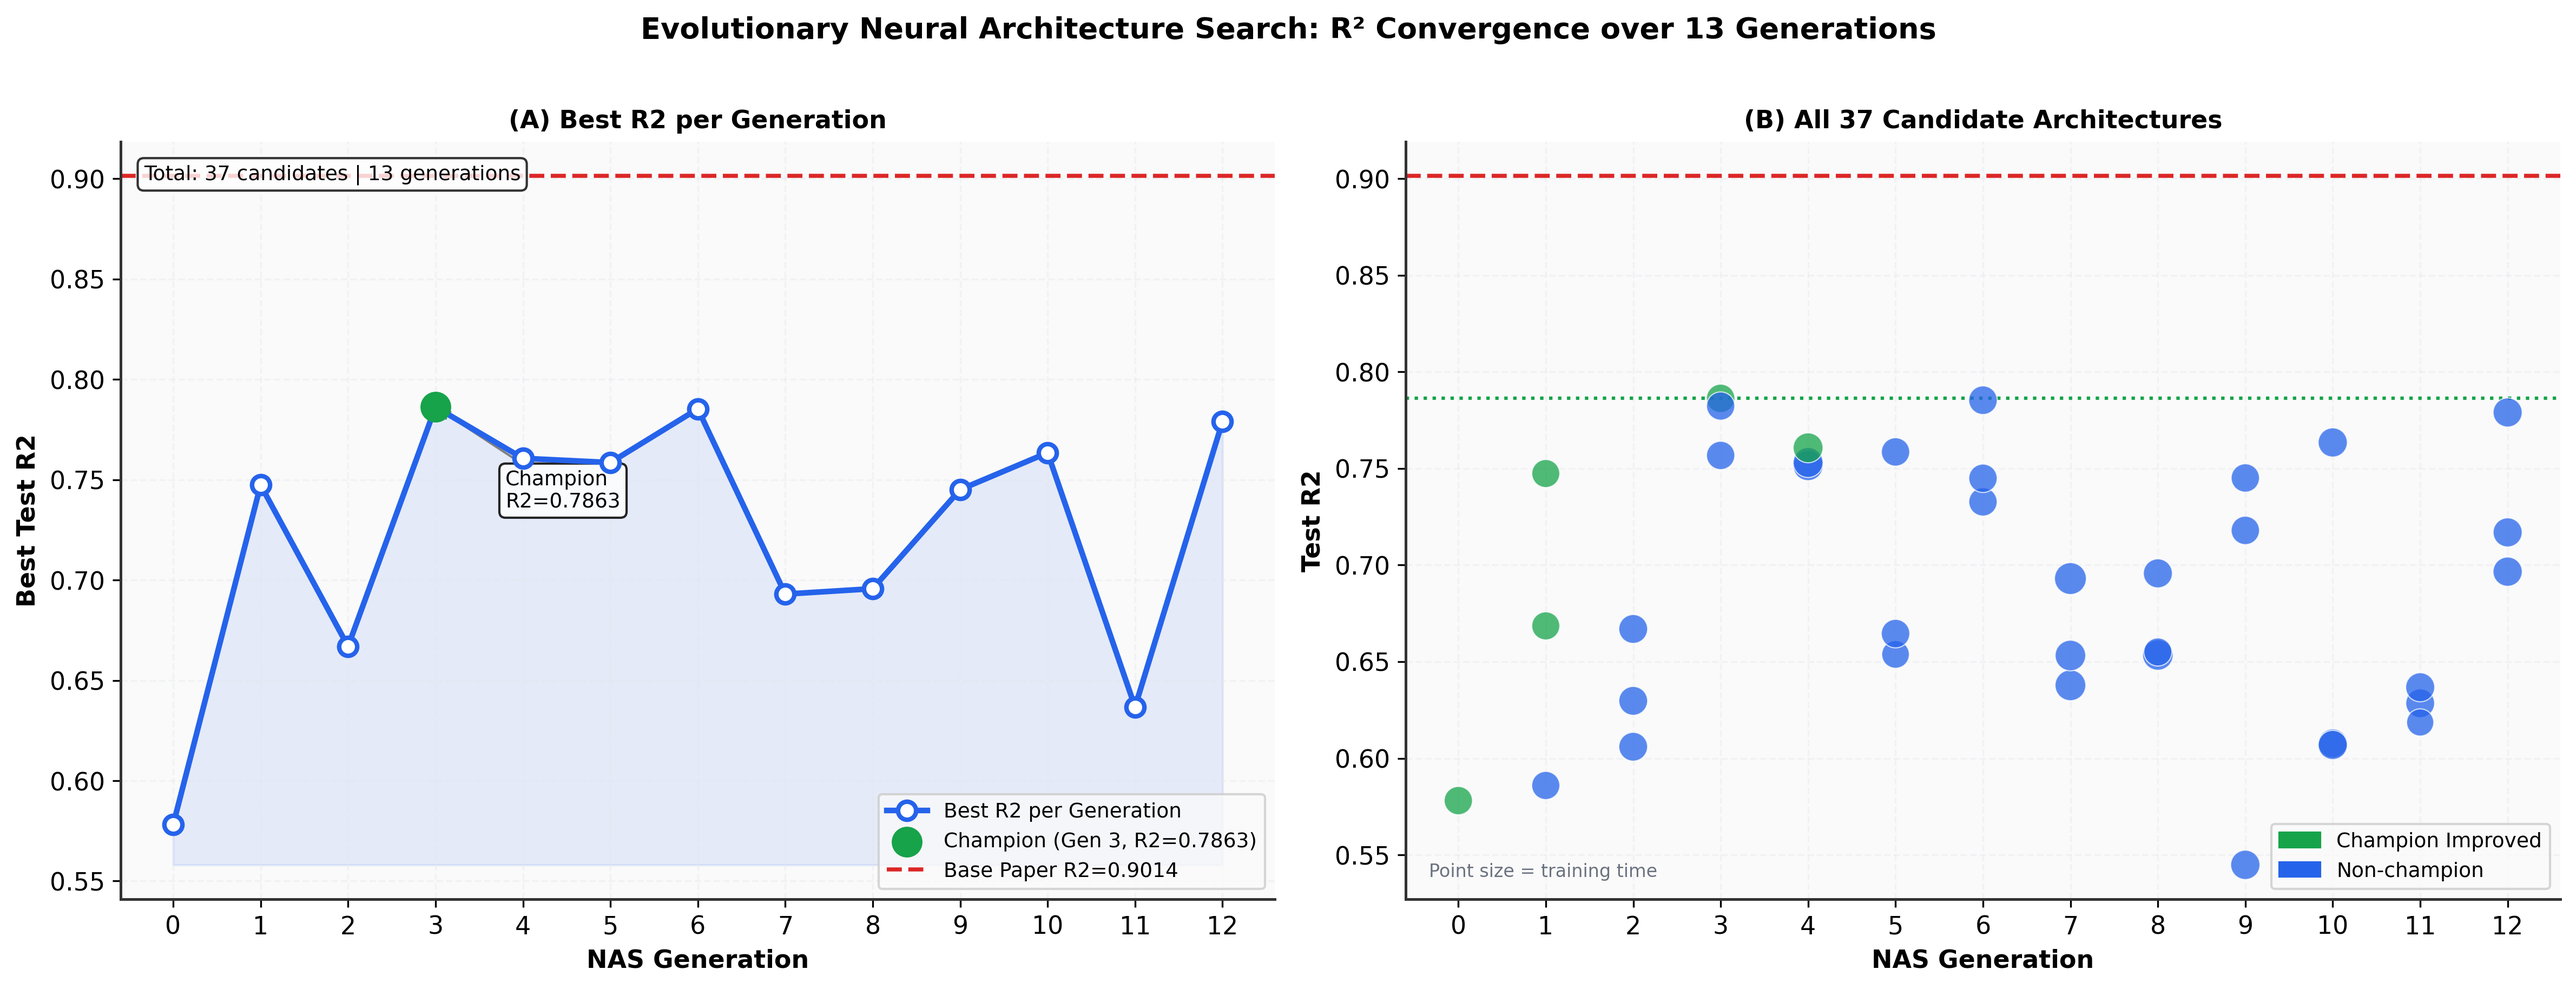
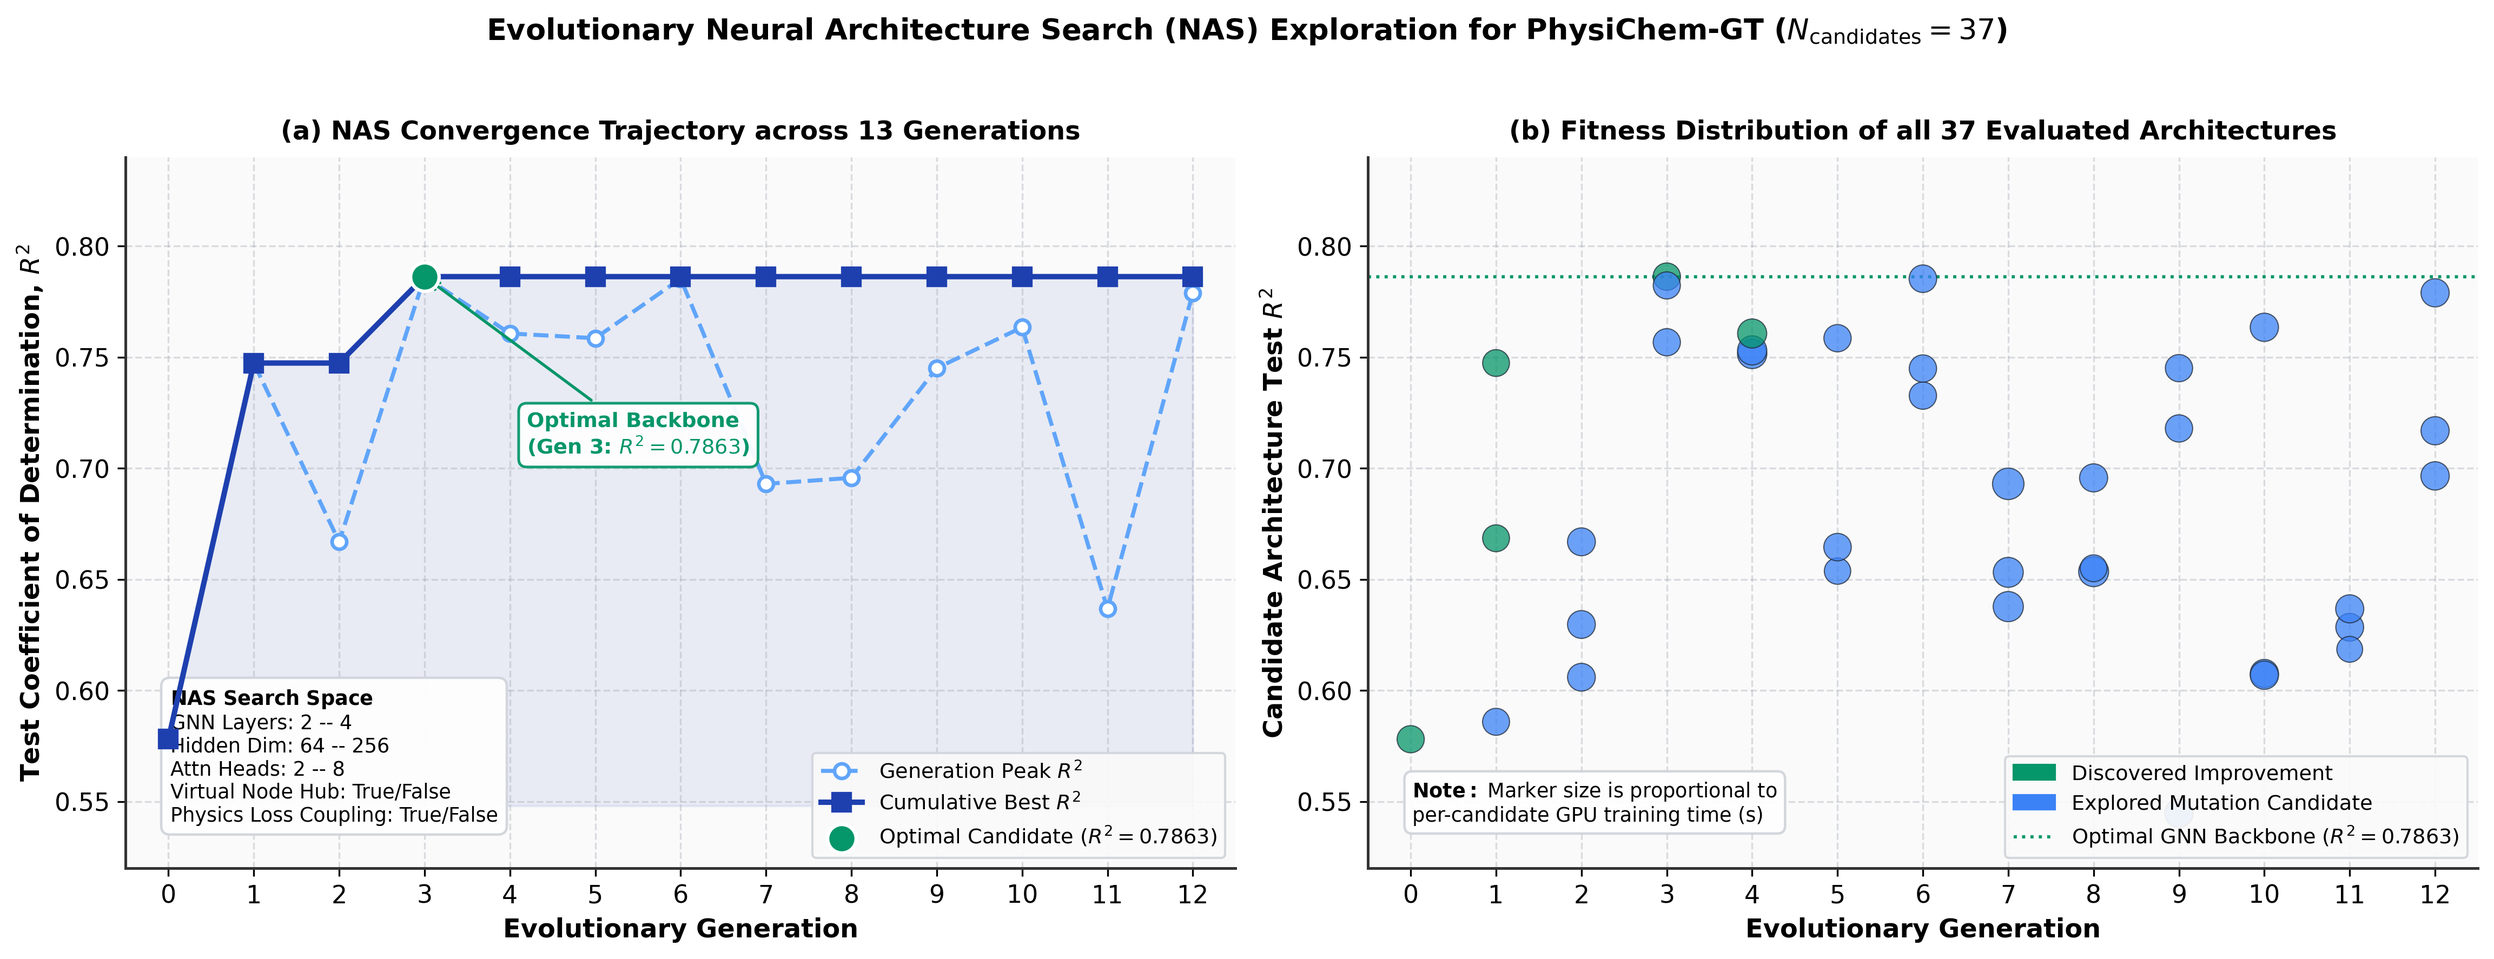
style(fig4): Polish Figure 4 NAS search trajectory to ACS publication standard

diff --git a/src/generate_paper_figures.py b/src/generate_paper_figures.py
@@ -775,7 +775,7 @@ def generate_figure6(data, models):
 # ==============================================================================
 
 def generate_figure4():
-    print("\n[Figure 4] NAS Evolutionary Search Progress ...")
+    print("\n[Figure 4] NAS Evolutionary Search Progress (Publication Grade) ...")
     nas_path = os.path.join(BASE_DIR, "results", "evolution_search", "search_progress.json")
     with open(nas_path) as f:
         nas = json.load(f)
@@ -786,58 +786,99 @@ def generate_figure4():
     all_best  = [r['is_best']     for r in results]
     all_time  = [r.get('time', 60) for r in results]
 
+    # 1. Generation best & Cumulative best
     gen_bests = {}
     for r in results:
         g = r['generation']
         if g not in gen_bests or r['test_r2'] > gen_bests[g]:
             gen_bests[g] = r['test_r2']
-    gens  = sorted(gen_bests); bests = [gen_bests[g] for g in gens]
+    gens  = sorted(gen_bests)
+    bests = [gen_bests[g] for g in gens]
 
-    fig, (ax1, ax2) = plt.subplots(1, 2, figsize=(16, 6))
-    fig.suptitle("Evolutionary Neural Architecture Search: R² Convergence over 13 Generations",
-                 fontsize=13, fontweight='bold', y=1.01)
+    # Cumulative running best
+    cum_bests = []
+    curr_max = -1.0
+    for b in bests:
+        curr_max = max(curr_max, b)
+        cum_bests.append(curr_max)
 
-    # Panel A
-    ax1.plot(gens, bests, 'o-', color=PALETTE['primary'], lw=2.5, ms=8,
-             markerfacecolor='white', markeredgewidth=2.0, label='Best R2 per Generation', zorder=4)
-    ax1.fill_between(gens, min(bests) - 0.02, bests, alpha=0.10, color=PALETTE['primary'])
-    cg  = gens[int(np.argmax(bests))]; cr2 = max(bests)
-    ax1.scatter([cg], [cr2], color=PALETTE['secondary'], s=160, zorder=5,
-                label=f'Champion (Gen {cg}, R2={cr2:.4f})')
-    ax1.annotate(f'Champion\nR2={cr2:.4f}',
-                 xy=(cg, cr2), xytext=(cg + 0.8, cr2 - 0.05), fontsize=9,
-                 arrowprops=dict(arrowstyle='->', color='gray'),
-                 bbox=dict(boxstyle='round', facecolor='white', alpha=0.85))
-    ax1.axhline(0.9014, color=PALETTE['baseline'], lw=1.8, ls='--',
-                label='Base Paper R2=0.9014')
-    ax1.set_xlabel("NAS Generation", fontsize=11, fontweight='bold')
-    ax1.set_ylabel("Best Test R2", fontsize=11, fontweight='bold')
-    ax1.set_title("(A) Best R2 per Generation", fontsize=11, fontweight='bold')
-    ax1.set_xticks(gens); ax1.legend(fontsize=9, loc='lower right'); ax1.grid(True, alpha=0.4)
-    ax1.text(0.02, 0.97, f"Total: {len(results)} candidates | {max(gens)+1} generations",
-             transform=ax1.transAxes, fontsize=9, va='top',
-             bbox=dict(boxstyle='round', facecolor='white', alpha=0.8))
+    fig, (ax1, ax2) = plt.subplots(1, 2, figsize=(15.5, 6.0), dpi=DPI)
+    fig.suptitle(r"Evolutionary Neural Architecture Search (NAS) Exploration for PhysiChem-GT ($N_{\mathrm{candidates}} = 37$)",
+                 fontsize=13, fontweight='bold', y=0.98)
 
-    # Panel B
-    colors_pts = [PALETTE['secondary'] if b else PALETTE['primary'] for b in all_best]
-    sizes_pts  = [80 + (t / max(all_time)) * 120 for t in all_time]
-    ax2.scatter(all_gen, all_r2, c=colors_pts, s=sizes_pts,
-                alpha=0.75, edgecolors='white', lw=0.5, zorder=3)
-    ax2.axhline(0.9014, color=PALETTE['baseline'], lw=1.8, ls='--', label='Base Paper R2=0.9014')
-    ax2.axhline(max(all_r2), color=PALETTE['secondary'], lw=1.5, ls=':',
-                label=f'Best Candidate R2={max(all_r2):.4f}')
-    gold = mpatches.Patch(color=PALETTE['secondary'], label='Champion Improved')
-    blue = mpatches.Patch(color=PALETTE['primary'],   label='Non-champion')
-    ax2.legend(handles=[gold, blue, *(ax2.get_legend_handles_labels()[0][2:])],
-               fontsize=9, loc='lower right')
-    ax2.set_xlabel("NAS Generation", fontsize=11, fontweight='bold')
-    ax2.set_ylabel("Test R2", fontsize=11, fontweight='bold')
-    ax2.set_title("(B) All 37 Candidate Architectures", fontsize=11, fontweight='bold')
-    ax2.set_xticks(sorted(set(all_gen))); ax2.grid(True, alpha=0.4)
-    ax2.text(0.02, 0.03, "Point size = training time",
-             transform=ax2.transAxes, fontsize=8, color=PALETTE['neutral'])
+    # ── Panel A: Trajectory ──
+    ax1.plot(gens, bests, 'o--', color='#60A5FA', lw=1.8, ms=6.5,
+             markerfacecolor='white', markeredgewidth=1.6, label='Generation Peak $R^2$', zorder=3)
+    ax1.plot(gens, cum_bests, 's-', color='#1E40AF', lw=2.4, ms=7.5,
+             markerfacecolor='#1E40AF', markeredgewidth=1.5, label='Cumulative Best $R^2$', zorder=4)
+    ax1.fill_between(gens, min(bests) - 0.03, cum_bests, alpha=0.08, color='#1E40AF')
 
-    plt.tight_layout()
+    # Champion callout
+    champ_idx = int(np.argmax(bests))
+    cg  = gens[champ_idx]
+    cr2 = bests[champ_idx]
+    ax1.scatter([cg], [cr2], color='#059669', s=160, zorder=5, edgecolor='white', lw=1.5,
+                label=f'Optimal Candidate ($R^2 = {cr2:.4f}$)')
+    ax1.annotate(f"Optimal Backbone\n(Gen {cg}: $R^2 = {cr2:.4f}$)",
+                 xy=(cg, cr2), xytext=(cg + 1.2, cr2 - 0.08),
+                 fontsize=9.2, fontweight='semibold', color='#059669',
+                 arrowprops=dict(arrowstyle='->', color='#059669', lw=1.3),
+                 bbox=dict(boxstyle='round,pad=0.4', facecolor='white',
+                           edgecolor='#059669', linewidth=1.2, alpha=0.94))
+
+    ax1.set_xlim(-0.5, max(gens) + 0.5)
+    ax1.set_ylim(0.52, 0.84)
+    ax1.set_xticks(gens)
+    ax1.set_xlabel("Evolutionary Generation", fontsize=11.5, fontweight='bold')
+    ax1.set_ylabel(r"Test Coefficient of Determination, $R^2$", fontsize=11.5, fontweight='bold')
+    ax1.set_title(r"(a) NAS Convergence Trajectory across 13 Generations", fontsize=11.5, fontweight='bold', pad=8)
+    ax1.legend(fontsize=9.2, loc='lower right', framealpha=0.92, edgecolor='#D1D5DB')
+    ax1.grid(True, linestyle='--', alpha=0.35, color='#9CA3AF')
+
+    # Search config inset
+    nas_card = (
+        r"$\mathbf{NAS\ Search\ Space}$" "\n"
+        "GNN Layers: 2 -- 4\n"
+        "Hidden Dim: 64 -- 256\n"
+        "Attn Heads: 2 -- 8\n"
+        "Virtual Node Hub: True/False\n"
+        "Physics Loss Coupling: True/False"
+    )
+    ax1.text(0.04, 0.06, nas_card,
+             transform=ax1.transAxes, fontsize=8.8, va='bottom', ha='left',
+             bbox=dict(boxstyle='round,pad=0.45', facecolor='white',
+                       edgecolor='#D1D5DB', linewidth=1.1, alpha=0.94))
+
+    # ── Panel B: All Candidate Architectures ──
+    colors_pts = ['#059669' if b else '#3B82F6' for b in all_best]
+    sizes_pts  = [55 + (t / max(all_time)) * 140 for t in all_time]
+
+    sc = ax2.scatter(all_gen, all_r2, c=colors_pts, s=sizes_pts,
+                     alpha=0.75, edgecolors='#1F2937', lw=0.5, zorder=3)
+    ax2.axhline(cr2, color='#059669', lw=1.4, ls=':',
+                label=f'Optimal GNN Backbone ($R^2 = {cr2:.4f}$)', zorder=2)
+
+    gold = mpatches.Patch(color='#059669', label='Discovered Improvement')
+    blue = mpatches.Patch(color='#3B82F6', label='Explored Mutation Candidate')
+    ax2.legend(handles=[gold, blue, *(ax2.get_legend_handles_labels()[0])],
+               fontsize=9.2, loc='lower right', framealpha=0.92, edgecolor='#D1D5DB')
+
+    ax2.set_xlim(-0.5, max(gens) + 0.5)
+    ax2.set_ylim(0.52, 0.84)
+    ax2.set_xticks(sorted(set(all_gen)))
+    ax2.set_xlabel("Evolutionary Generation", fontsize=11.5, fontweight='bold')
+    ax2.set_ylabel(r"Candidate Architecture Test $R^2$", fontsize=11.5, fontweight='bold')
+    ax2.set_title(r"(b) Fitness Distribution of all 37 Evaluated Architectures", fontsize=11.5, fontweight='bold', pad=8)
+    ax2.grid(True, linestyle='--', alpha=0.35, color='#9CA3AF')
+
+    ax2.text(0.04, 0.06,
+             r"$\mathbf{Note:}$ Marker size is proportional to" "\n"
+             r"per-candidate GPU training time (s)",
+             transform=ax2.transAxes, fontsize=8.8, va='bottom', ha='left',
+             bbox=dict(boxstyle='round,pad=0.4', facecolor='white',
+                       edgecolor='#D1D5DB', linewidth=1.1, alpha=0.94))
+
+    plt.tight_layout(rect=[0, 0, 1, 0.96])
     path = os.path.join(OUT_DIR, "figure4_nas_search_progress.png")
     fig.savefig(path, dpi=DPI, bbox_inches='tight')
     plt.close(fig)
